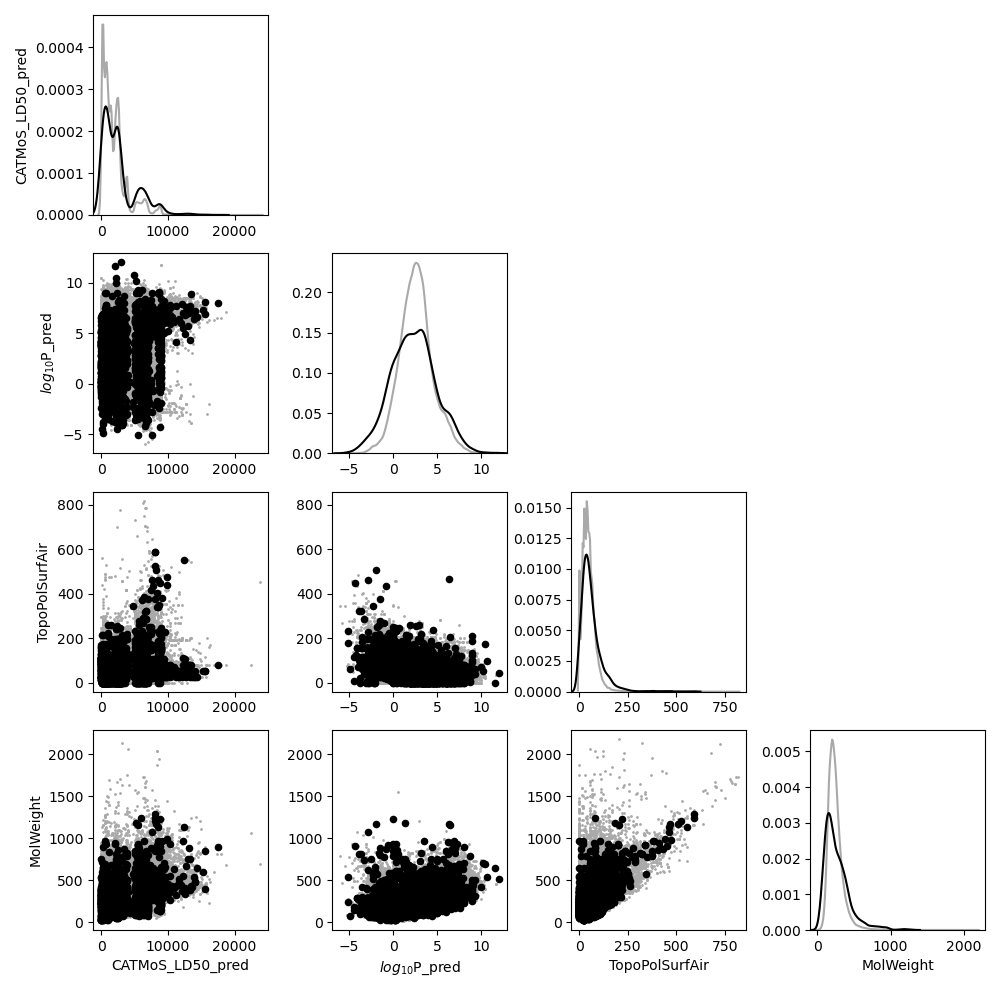
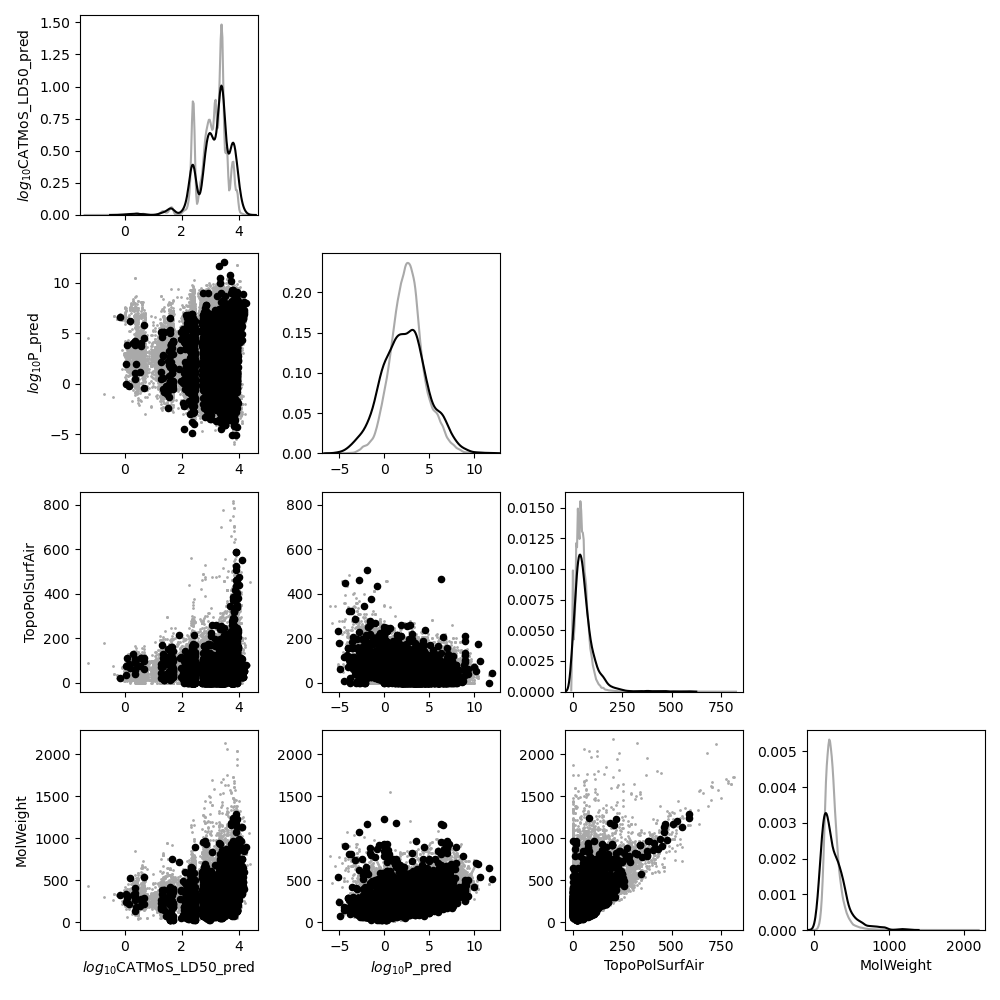
Refactor kde/scatterplot: log10 transform LD50s

diff --git a/plot.py b/plot.py
@@ -99,19 +99,14 @@ def feature_distributions(
 #endregion
 
 #region: pairwise_scatters_and_kde_subplots
-def pairwise_scatters_and_kde_subplots(
-        features_file, 
-        targets_file, 
-        plot_settings,
-        figsize=(10, 10)
-    ):
+def pairwise_scatters_and_kde_subplots(features_file, targets_file, plot_settings, figsize=(10, 10)):
     '''
     Create a grid of scatter and KDE plots for combinations of features.
 
     Parameters
     ----------
     '''
-    # TODO: Move to plot_settings?
+    # TODO: Move to plot setting?
     features_subset = [  
         'CATMoS_LD50_pred',
         'P_pred',
@@ -134,11 +129,9 @@ def pairwise_scatters_and_kde_subplots(
     X = pd.read_csv(features_file, index_col=0)
     X = X[features_subset]
 
-    # Log10-transform while preserving column order
-    old_name = 'P_pred'
-    new_name = '$log_{10}$' + old_name
-    X = X.rename({old_name : new_name}, axis=1)
-    X[new_name] = np.log10(X[new_name])
+    # Log10-transform desired features
+    X = _log10_transform_feature(X, 'P_pred')
+    X = _log10_transform_feature(X, 'CATMoS_LD50_pred')
 
     buffer_fraction = 0.05  # 5% buffer
     limits_for_feature = {}
@@ -181,6 +174,29 @@ def pairwise_scatters_and_kde_subplots(
         pairwise_scatters_and_kde_subplots, 
         'all-opera-features-and-target-union'
         )
+#endregion
+
+#region: _log10_transform_feature
+def _log10_transform_feature(X, feature_name):
+    '''
+    Log10-transforms the given feature in the dataframe X.
+
+    Parameters
+    ----------
+    X : pd.DataFrame
+        The dataframe containing the feature to be transformed.
+    feature_name : str
+        The name of the feature to be transformed.
+
+    Returns
+    -------
+    X : pd.DataFrame
+        The dataframe with the transformed feature.
+    '''
+    new_name = '$log_{10}$' + feature_name
+    X = X.rename({feature_name: new_name}, axis=1)
+    X[new_name] = np.log10(X[new_name])
+    return X
 #endregion
 
 #region: plot_pairwise_scatters_and_kde
